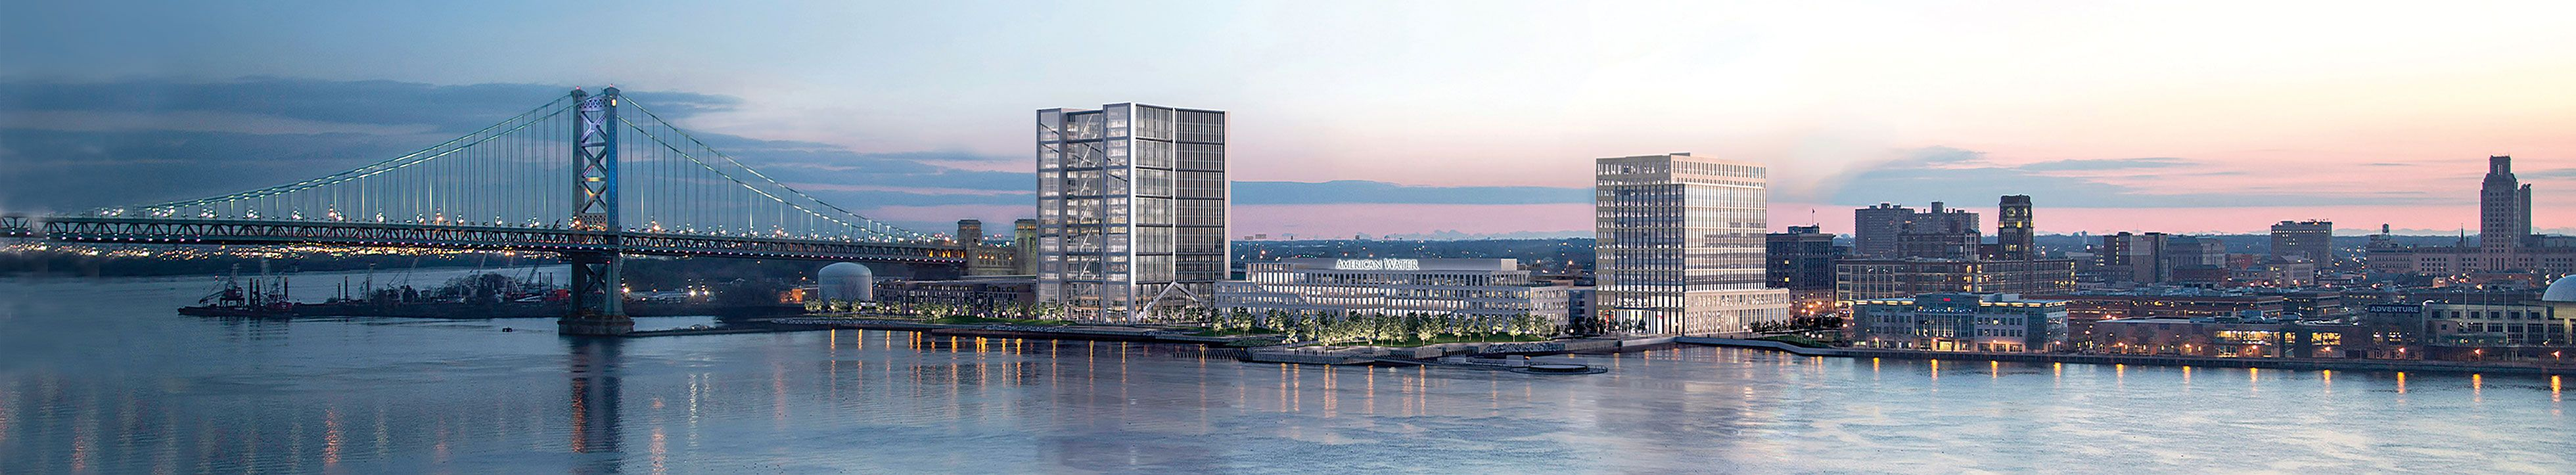
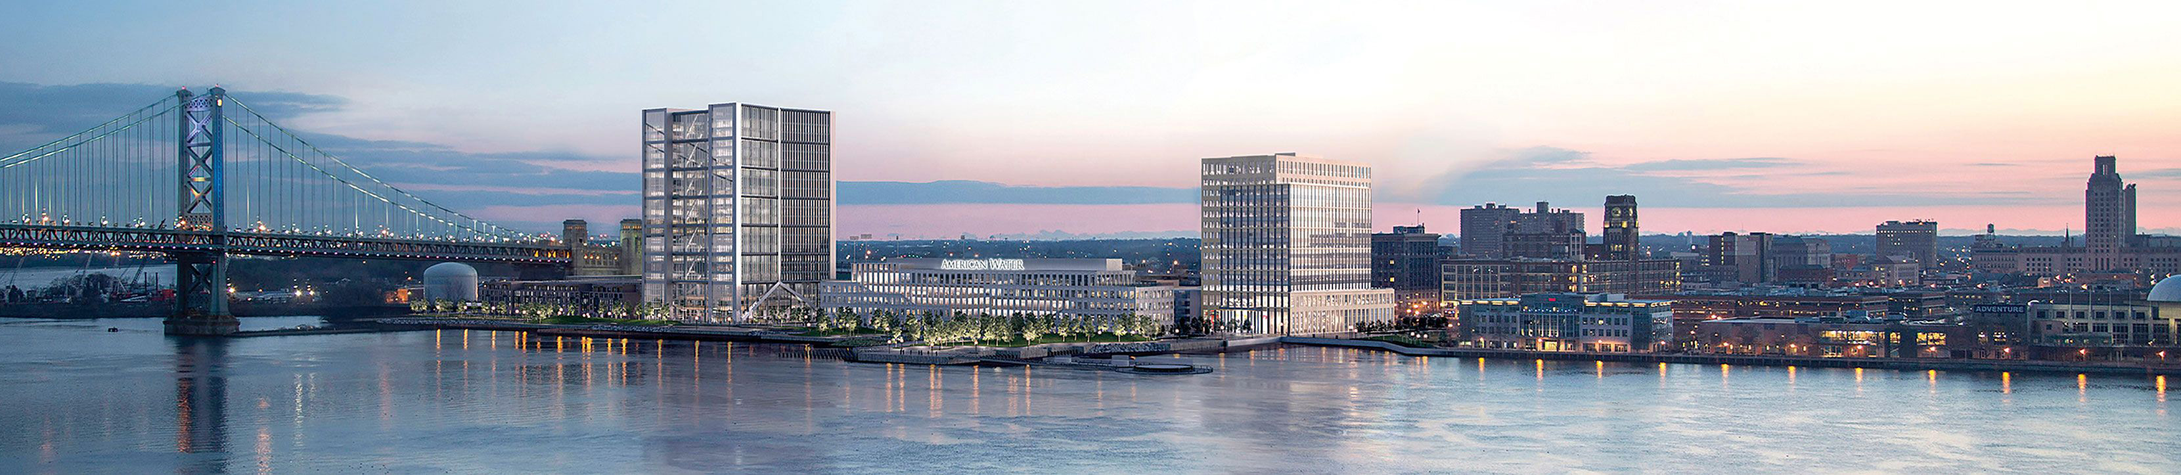
fit pan image to window

diff --git a/js/main.js b/js/main.js
@@ -21,6 +21,7 @@ function getWindowWidth() {
   // Update the window width variable on resize
   $(window).on("load resize", function(e) {
     getWindowWidth();
+    fitPanToWindow();
   });
 
   // Show the dropdown menu on hover
@@ -38,9 +39,17 @@ function getWindowWidth() {
   function animateLeft() {
     $('.pan-image').animate({
       'background-position-x': '100%'
-    }, 30000, 'swing');
+    }, 30000, 'linear');
   }
   animateLeft();
+
+  function fitPanToWindow() {
+    // Get the window height
+    var windowHeight = $(window).height();
+    var headerHeight = $('.header').height();
+    // Set the height of the pan container
+    $('.pan-container, .pan-image').height(windowHeight - headerHeight);
+  }
 
   // Sliders
   $('.slider').bxSlider({

diff --git a/css/main.css b/css/main.css
@@ -84,12 +84,12 @@ p {
 
 #index .home-banner .pan-container {
   position: relative;
-  height: 216px;
+  height: 216px !important;
 }
 
 #index .home-banner .pan-container .pan-image {
-  height: 216px;
-  background: url('../img/home/slider/slider.jpg');
+  height: 216px !important;
+  background: url('../img/home/slider/slider.jpg') no-repeat;
   background-size: auto 100%;
 }
 
@@ -431,10 +431,10 @@ p {
     top: 0;
   }
   #index .home-banner .pan-container {
-    height: 620px;
+    min-height: 434px;
   }
   #index .home-banner .pan-container .pan-image {
-    height: 620px;
+    min-height: 434px;
   }
   #index .home-banner span {
     bottom: 35px;
